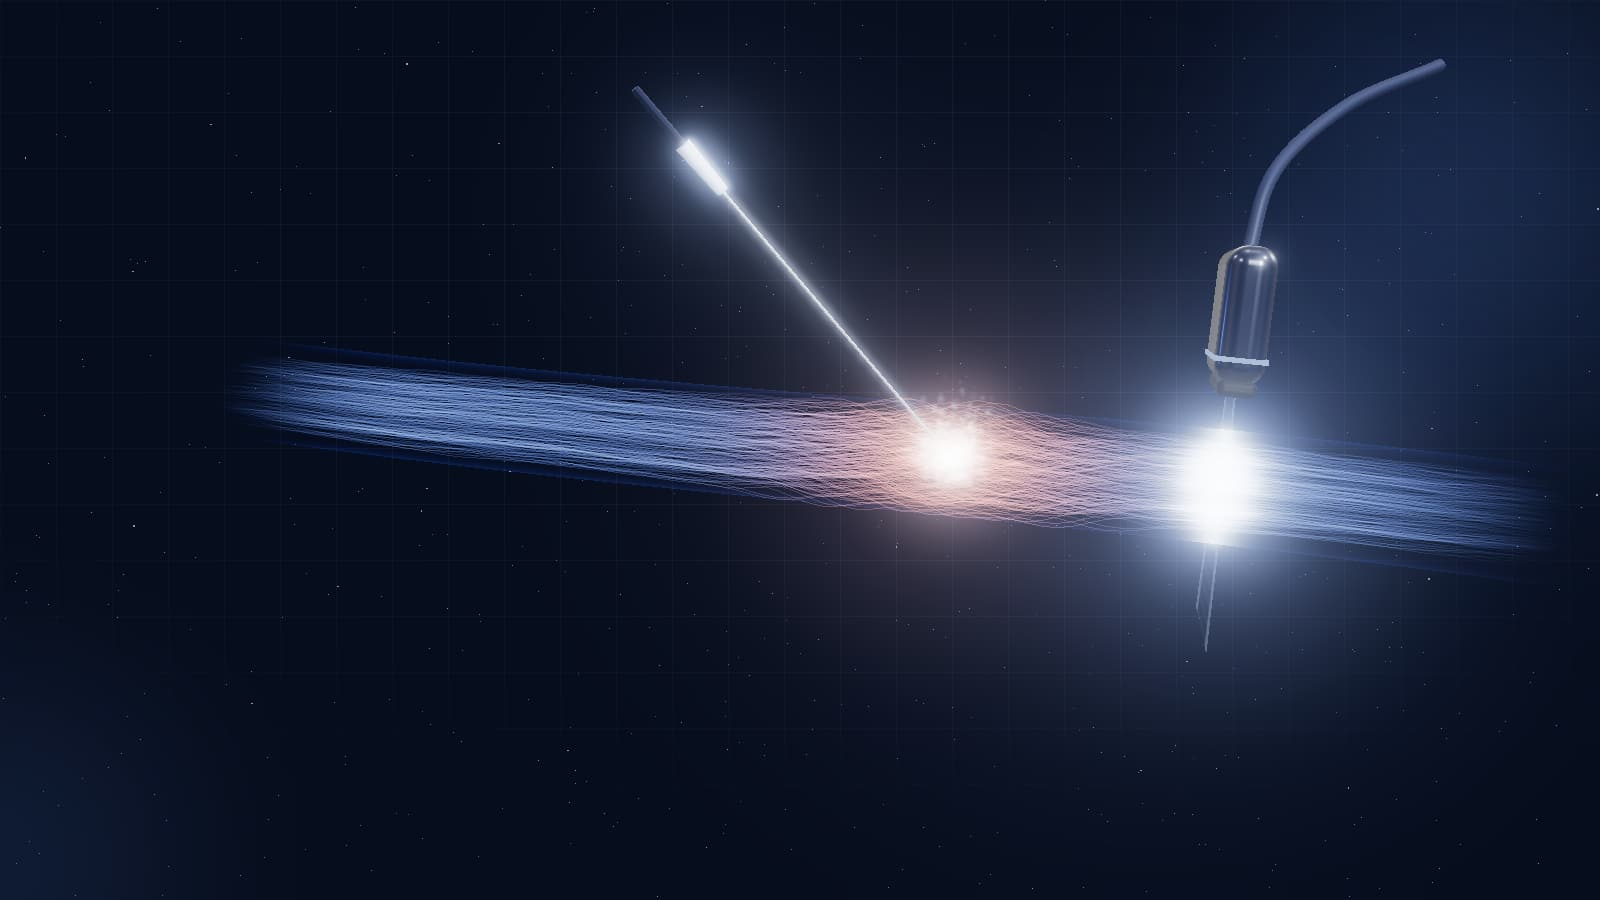
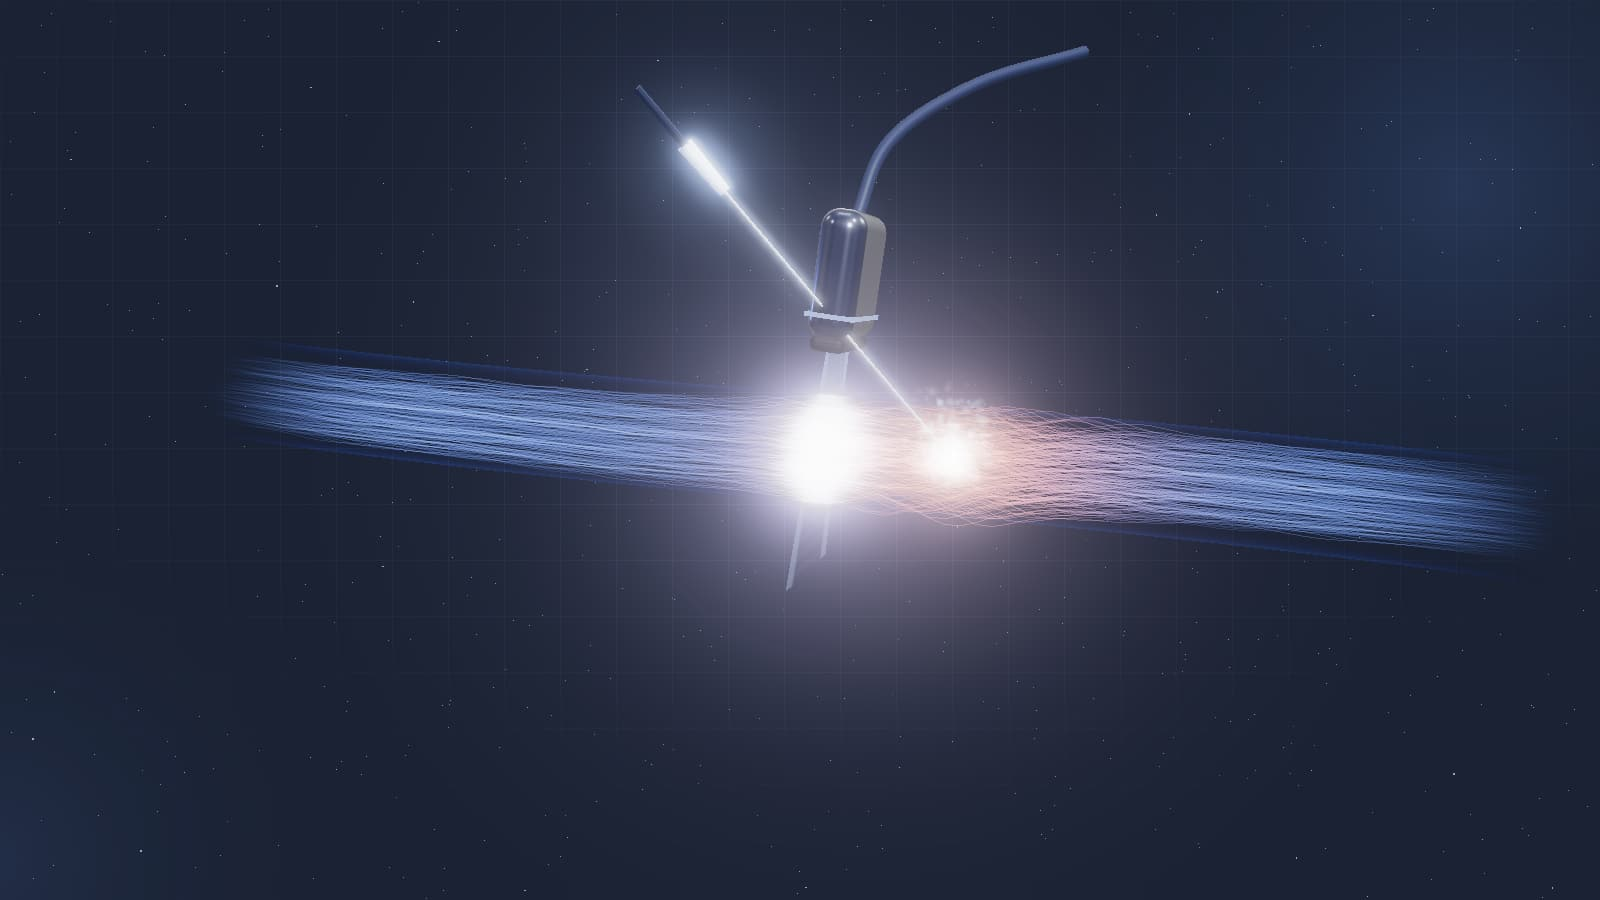
Aclarar la paleta: gris azulado más brillante en secciones oscuras y textos

diff --git a/src/styles/global.css b/src/styles/global.css
@@ -10,11 +10,11 @@
   --font-sans: 'Manrope Variable', 'Manrope Fallback', system-ui, -apple-system, 'Segoe UI', Roboto, sans-serif;
   --font-display: 'Space Grotesk Variable', 'Manrope Variable', system-ui, sans-serif;
 
-  --color-abyss: #040913;
-  --color-navy-950: #060d1c;
-  --color-navy-900: #0a1530;
-  --color-navy-850: #0e1b3a;
-  --color-navy-800: #132345;
+  --color-abyss: #141b29;
+  --color-navy-950: #1a2233;
+  --color-navy-900: #212b3f;
+  --color-navy-850: #27324a;
+  --color-navy-800: #2d3a55;
   --color-navy-700: #1b2b4b;
   --color-navy-600: #24385f;
   --color-navy-500: #34508a;

diff --git a/src/scripts/scene3d.js b/src/scripts/scene3d.js
@@ -281,7 +281,7 @@ export function createScene(canvas, { mobile = false } = {}) {
   renderer.toneMappingExposure = 0.9;
 
   const scene = new THREE.Scene();
-  scene.fog = new THREE.FogExp2('#060d1c', 0.055);
+  scene.fog = new THREE.FogExp2('#1a2233', 0.05);
   const pmrem = new THREE.PMREMGenerator(renderer);
   scene.environment = pmrem.fromScene(new RoomEnvironment(), 0.04).texture;
 
